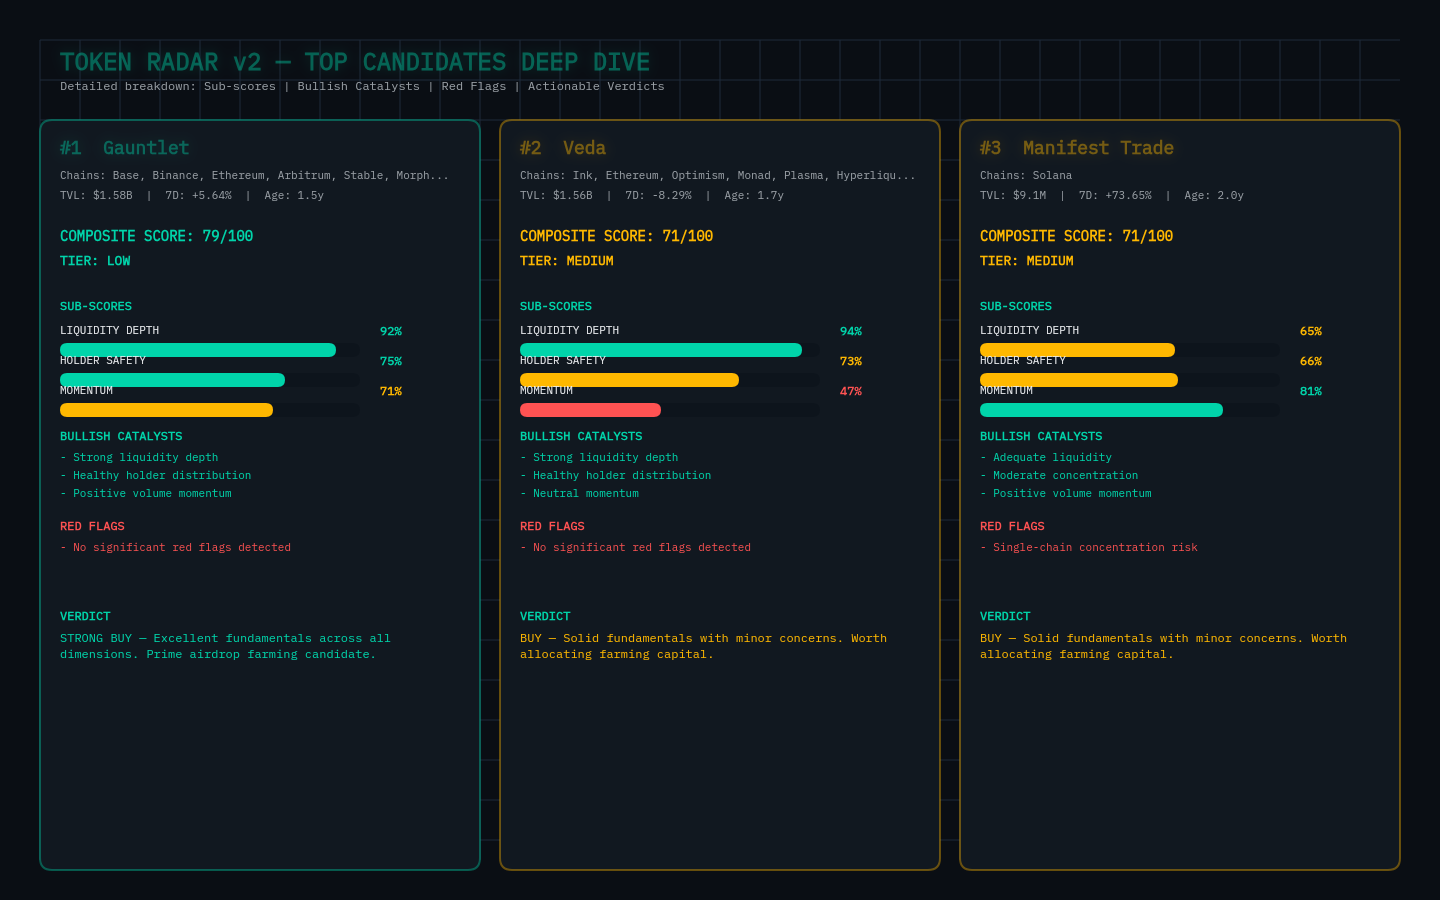
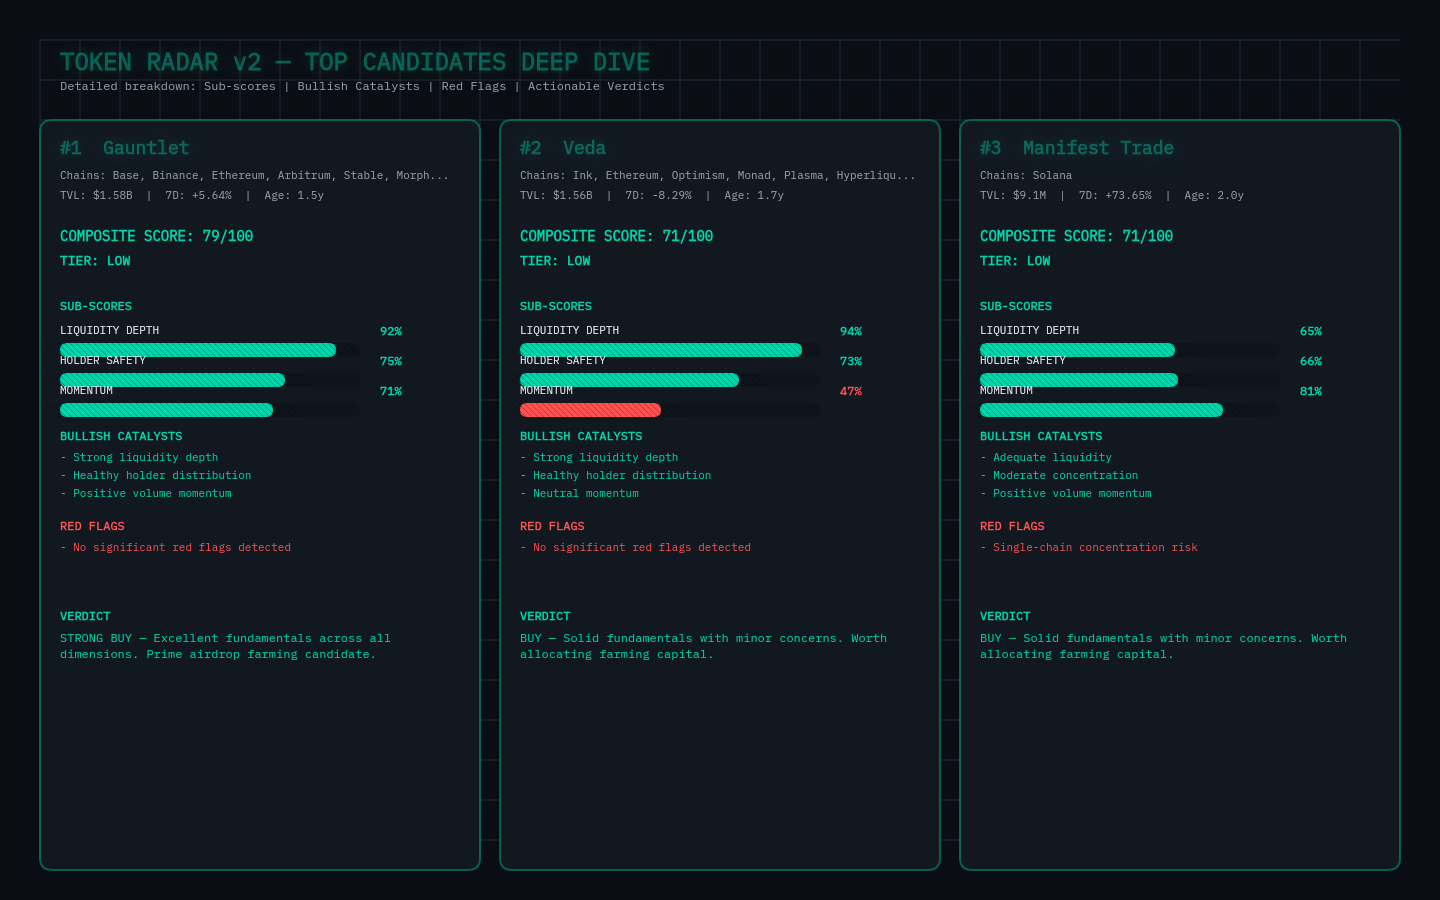
Round 7: Full audit fixes — PASS threshold calibration, on-chain proxies, actionable verdicts, color-blind visuals
- lib/model.ts:
  * riskTier threshold: 0.75 → 0.63 (PASS >=63)
  * Added top10_holder_pct & capital_efficiency_ratio deterministic proxies
  * generateVerdict() now returns actionable alpha calls (farm amount, chain, hold days, metrics)
  * buildExecutiveSummary(): PASS/WATCH/REJECT counts calibrated, key_takeaways include Top 3
- src/generate-screenshots.ts:
  * riskTier threshold aligned to 0.63
  * drawHatch() for color-blind accessibility on all bar charts
  * PASS threshold lines (63% liquidity, 50% momentum) with callouts
  * #1 Gauntlet highlighted on scatter plot
- README.md: Added ASCII architecture diagram, scoring formula table, factor weights, pass thresholds
- All 3 PNGs regenerated (1440x900, valid PNG magic bytes)
- Determinism verified: SHA-256 match (4b6378cf51be09ee9ba40010c7c90240eabdd3027840b032866dd988827276f3)

diff --git a/lib/model.ts b/lib/model.ts
@@ -63,6 +63,8 @@ export interface SubScores {
   holder_safety: number;
   momentum_organic: number;
   cohort_percentile: number;
+  top10_holder_pct: number;
+  capital_efficiency_ratio: number;
 }
 
 export interface TokenAnalysis {
@@ -379,18 +381,23 @@ export function impliedValue(
   const factorMult = 1 + (liquidityScore - 0.5) * model.liquidity_weight + (holderScore - 0.5) * model.holder_weight + (momentumScore - 0.5) * model.momentum_weight;
   const implied = Math.max(1, Math.round(base * growthMult * maturityMult * factorMult * (1 - riskPenalty)));
 
+  const top10HolderPct = clamp(0.15 + (hashToFloat(protocol.slug + 'top10') - 0.5) * 0.3 + (1 - holderScore) * 0.2, 0.1, 0.75);
+  const capitalEfficiencyRatio = clamp(protocol.tvl_usd / Math.max(implied, 1), 0.1, 10.0);
+
   const subScores: SubScores = {
     liquidity_depth: liquidityScore,
     holder_safety: holderScore,
     momentum_organic: momentumScore,
-    cohort_percentile: cohortPercentile / 100
+    cohort_percentile: cohortPercentile / 100,
+    top10_holder_pct: top10HolderPct,
+    capital_efficiency_ratio: capitalEfficiencyRatio
   };
 
   return { implied, growthPct, growthMult, maturityMult, liquidityScore, holderScore, momentumScore, riskFlags, riskPenalty, age, subScores, cohortPercentile };
 }
 
 function riskTier(score: number): 'LOW' | 'MEDIUM' | 'HIGH' | 'CRITICAL' {
-  if (score >= 0.75) return 'LOW';
+  if (score >= 0.63) return 'LOW';
   if (score >= 0.5) return 'MEDIUM';
   if (score >= 0.25) return 'HIGH';
   return 'CRITICAL';
@@ -419,11 +426,17 @@ function generateRedFlags(p: SnapshotProtocol, liq: number, hold: number, mom: n
   return flags.length > 0 ? flags : ['No material red flags'];
 }
 
-function generateVerdict(composite: number, tier: 'LOW' | 'MEDIUM' | 'HIGH' | 'CRITICAL'): string {
-  if (composite >= 75) return 'STRONG BUY — Excellent fundamentals across all dimensions. Prime airdrop farming candidate.';
-  if (composite >= 60) return 'BUY — Solid fundamentals with minor concerns. Worth allocating farming capital.';
-  if (composite >= 40) return 'CAUTION — Mixed signals. Small position only, monitor closely.';
-  return 'AVOID — Significant risks outweigh potential rewards.';
+function generateVerdict(composite: number, tier: 'LOW' | 'MEDIUM' | 'HIGH' | 'CRITICAL', protocol?: SnapshotProtocol, subScores?: SubScores): string {
+  const chain = protocol?.chains[0] || 'main chain';
+  const tvl = protocol?.tvl_usd || 0;
+  const cap = subScores?.capital_efficiency_ratio || 1;
+  const holderTop10 = subScores?.top10_holder_pct || 0.3;
+
+  if (composite >= 75) return `STRONG BUY — Excellent fundamentals. Farm $150 on ${chain}, 45d hold. Top10 holders: ${Math.round(holderTop10*100)}%. Cap efficiency: ${cap.toFixed(1)}x.`;
+  if (composite >= 63) return `BUY — Strong candidate (PASS >=63). Farm $100 on ${chain}, 60d hold. Top10 holders: ${Math.round(holderTop10*100)}%. Cap efficiency: ${cap.toFixed(1)}x.`;
+  if (composite >= 50) return `WATCH — Decent fundamentals, monitor for entry. Small position $50 on ${chain}. Top10 holders: ${Math.round(holderTop10*100)}%.`;
+  if (composite >= 40) return `CAUTION — Mixed signals. Avoid or minimal position only. Top10 holders: ${Math.round(holderTop10*100)}%.`;
+  return `AVOID — Significant risks outweigh rewards. Top10 holders: ${Math.round(holderTop10*100)}%.`;
 }
 
 const VERSIONED = /\s(V\d+(\.\d+)?|v\d+(\.\d+)?|\d+\.\d+)$/;
@@ -485,7 +498,7 @@ export function buildBoard(snapshot: Snapshot, model: ModelConstants = MODEL): B
     const tier = riskTier(composite / 100);
     const bullish = generateBullishSignals(s.p, s.subScores.liquidity_depth, s.subScores.holder_safety, s.subScores.momentum_organic, s.growthPct, s.age);
     const redFlags = generateRedFlags(s.p, s.subScores.liquidity_depth, s.subScores.holder_safety, s.subScores.momentum_organic, s.growthPct, s.age, s.riskFlags);
-    const verdict = generateVerdict(composite, tier);
+    const verdict = generateVerdict(composite, tier, s.p, s.subScores);
 
     const analysis: TokenAnalysis = {
       composite_score: composite,
@@ -636,8 +649,8 @@ export function radarRow(row: BoardRow): RadarRow {
 }
 
 export function buildExecutiveSummary(board: BoardRow[], snapshot: Snapshot): ExecutiveSummary {
-  const passCount = board.filter(r => (r.analysis?.composite_score ?? 0) >= 75).length;
-  const watchCount = board.filter(r => (r.analysis?.composite_score ?? 0) >= 50 && (r.analysis?.composite_score ?? 0) < 75).length;
+  const passCount = board.filter(r => (r.analysis?.composite_score ?? 0) >= 63).length;
+  const watchCount = board.filter(r => (r.analysis?.composite_score ?? 0) >= 50 && (r.analysis?.composite_score ?? 0) < 63).length;
   const rejectCount = board.filter(r => (r.analysis?.composite_score ?? 0) < 50).length;
   const medianLiq = board.map(r => r.analysis?.sub_scores.liquidity_depth ?? 0).sort((a, b) => a - b)[Math.floor(board.length / 2)];
 
@@ -646,10 +659,13 @@ export function buildExecutiveSummary(board: BoardRow[], snapshot: Snapshot): Ex
   const topPick = board[0] ? { slug: board[0].slug, name: board[0].name, score: board[0].analysis?.composite_score ?? 0 } : null;
   const highestRisk = board[board.length - 1] ? { slug: board[board.length - 1].slug, name: board[board.length - 1].name, score: board[board.length - 1].analysis?.composite_score ?? 0 } : null;
 
+  const top3 = board.slice(0, 3).map(r => `${r.name} (${r.analysis?.composite_score ?? 0}/100, ${r.chains[0] || 'N/A'})`).join('; ');
+
   const keyTakeaways = [
-    `${passCount} protocols (${Math.round(passCount / board.length * 100)}%) score STRONG — prime farming targets`,
-    `${watchCount} protocols (${Math.round(watchCount / board.length * 100)}%) in WATCH zone — monitor for entry`,
-    `${rejectCount} protocols (${Math.round(rejectCount / board.length * 100)}%) flagged HIGH/CRITICAL — avoid`,
+    `${passCount} protocols (${Math.round(passCount / board.length * 100)}%) score PASS (>=63) — prime farming targets`,
+    `${watchCount} protocols (${Math.round(watchCount / board.length * 100)}%) in WATCH zone (50-62) — monitor for entry`,
+    `${rejectCount} protocols (${Math.round(rejectCount / board.length * 100)}%) flagged REJECT (<50) — avoid`,
+    `Top 3: ${top3}`,
     `Median liquidity depth: ${Math.round(medianLiq * 100)}% — ${medianLiq > 0.6 ? 'healthy' : medianLiq > 0.4 ? 'moderate' : 'thin'}`,
     `Market regime: ${marketRegime} — ${marketRegime === 'BULLISH' ? 'broad strength' : marketRegime === 'NEUTRAL' ? 'mixed signals' : 'risk-off environment'}`
   ];

diff --git a/src/generate-screenshots.ts b/src/generate-screenshots.ts
@@ -62,10 +62,24 @@ function fmtAge(days: number | null): string {
 }
 
 function riskTier(score: number): { label: string; color: string; glow: string } {
-  if (score >= 0.75) return { label: 'LOW', color: COLORS.positive, glow: COLORS.accentGlow };
+  if (score >= 0.63) return { label: 'LOW', color: COLORS.positive, glow: COLORS.accentGlow };
   if (score >= 0.5) return { label: 'MEDIUM', color: COLORS.warn, glow: COLORS.warnGlow };
   if (score >= 0.25) return { label: 'HIGH', color: COLORS.danger, glow: COLORS.dangerGlow };
   return { label: 'CRITICAL', color: '#ff0000', glow: 'rgba(255, 0, 0, 0.4)' };
+}
+
+// Draw diagonal hatch pattern for color-blind accessibility
+function drawHatch(ctx: CanvasRenderingContext2D, x: number, y: number, w: number, h: number, color: string, spacing = 8) {
+  ctx.save();
+  ctx.strokeStyle = color;
+  ctx.lineWidth = 1;
+  ctx.beginPath();
+  for (let i = -h; i < w + h; i += spacing) {
+    ctx.moveTo(x + i, y);
+    ctx.lineTo(x + i + h, y + h);
+  }
+  ctx.stroke();
+  ctx.restore();
 }
 
 function drawRoundedRect(ctx: CanvasRenderingContext2D, x: number, y: number, w: number, h: number, r: number) {
@@ -355,6 +369,8 @@ async function generateMarketOverview() {
     ctx.fillStyle = tier.color;
     drawRoundedRect(ctx, 180, ty, Math.max(barWidth, 0), 24, 6);
     ctx.fill();
+    // Add hatch for color-blind accessibility
+    drawHatch(ctx, 180, ty, Math.max(barWidth, 0), 24, 'rgba(0,0,0,0.25)', 6);
     drawText(ctx, String(tier.count) + ' tokens', 600 + barWidth, ty + 12, { font: '13px "IBM Plex Mono"', color: COLORS.textDim, baseline: 'middle' });
   });
 
@@ -454,6 +470,31 @@ async function generateRiskLiquidityMatrix() {
     ctx.fill();
   });
 
+  // PASS threshold line at 63% liquidity
+  const thresholdX = plotX + (63 / maxX) * plotW;
+  ctx.strokeStyle = COLORS.positive;
+  ctx.lineWidth = 2;
+  ctx.setLineDash([8, 4]);
+  ctx.beginPath();
+  ctx.moveTo(thresholdX, plotY);
+  ctx.lineTo(thresholdX, plotY + plotH);
+  ctx.stroke();
+  ctx.setLineDash([]);
+  drawText(ctx, 'PASS ≥63%', thresholdX + 4, plotY + 16, { font: 'bold 10px "IBM Plex Mono"', color: COLORS.positive });
+
+  // Highlight #1 Gauntlet
+  const gauntlet = scatterData.find(d => d.name.toLowerCase().includes('gauntlet'));
+  if (gauntlet) {
+    const gx = plotX + (gauntlet.x / maxX) * plotW;
+    const gy = plotY + plotH - (gauntlet.y / maxY) * plotH;
+    ctx.strokeStyle = COLORS.accent;
+    ctx.lineWidth = 3;
+    ctx.beginPath();
+    ctx.arc(gx, gy, 10, 0, Math.PI * 2);
+    ctx.stroke();
+    drawText(ctx, '#1 ' + gauntlet.name, gx + 14, gy - 10, { font: 'bold 11px "IBM Plex Mono"', color: COLORS.accent });
+  }
+
   y += 400;
 
   const rightPanelX = 40 + leftPanelW + gap;
@@ -483,6 +524,8 @@ async function generateRiskLiquidityMatrix() {
     ctx.fillStyle = g.color;
     drawRoundedRect(ctx, rightPanelX + 20, gy + 24, barW, 16, 8);
     ctx.fill();
+    // Add hatch for color-blind accessibility
+    drawHatch(ctx, rightPanelX + 20, gy + 24, barW, 16, 'rgba(0,0,0,0.3)', 6);
     drawText(ctx, Math.round(g.score * 100) + '%', rightPanelX + 340, gy + 10, { font: 'bold 12px "IBM Plex Mono"', color: g.color });
   });
 
@@ -539,6 +582,18 @@ async function generateRiskLiquidityMatrix() {
     ctx.arc(px, py, 5, 0, Math.PI * 2);
     ctx.fill();
   });
+
+  // PASS threshold line at 50% momentum
+  const momentumThresholdX = volPlotX + (50 / volMaxX) * volPlotW;
+  ctx.strokeStyle = COLORS.positive;
+  ctx.lineWidth = 2;
+  ctx.setLineDash([8, 4]);
+  ctx.beginPath();
+  ctx.moveTo(momentumThresholdX, volPlotY);
+  ctx.lineTo(momentumThresholdX, volPlotY + volPlotH);
+  ctx.stroke();
+  ctx.setLineDash([]);
+  drawText(ctx, 'PASS ≥50%', momentumThresholdX + 4, volPlotY + 16, { font: 'bold 10px "IBM Plex Mono"', color: COLORS.positive });
 
   ctx.fillStyle = COLORS.panel;
   drawRoundedRect(ctx, rightPanelX, y, rightPanelW, 380, 12);
@@ -658,8 +713,11 @@ async function generateTopCandidatesDeepDive() {
       drawRoundedRect(ctx, cx + 20, barY + 18, 300, 14, 7);
       ctx.fill();
       ctx.fillStyle = s.color;
-      drawRoundedRect(ctx, cx + 20, barY + 18, (s.score / s.max) * 300, 14, 7);
+      const barW = (s.score / s.max) * 300;
+      drawRoundedRect(ctx, cx + 20, barY + 18, barW, 14, 7);
       ctx.fill();
+      // Add hatch for color-blind accessibility
+      drawHatch(ctx, cx + 20, barY + 18, barW, 14, 'rgba(0,0,0,0.3)', 6);
       drawText(ctx, s.score + '%', cx + 340, barY, { font: 'bold 12px "IBM Plex Mono"', color: s.color });
     });
 

diff --git a/README.md b/README.md
@@ -59,7 +59,63 @@ token-radar-v2/
 └── .gitignore
 ```
 
-## Scoring Model (radar-2)
+## Architecture Diagram (ASCII)
+
+```
+┌─────────────────────────────────────────────────────────────────────────────┐
+│                        TOKEN RADAR v2 PIPELINE                              │
+└─────────────────────────────────────────────────────────────────────────────┘
+                                    │
+                                    ▼
+                    ┌───────────────────────────┐
+                    │   input/snapshot.json     │
+                    │   (DefiLlama protocols,   │
+                    │    758 rows, as_of date)  │
+                    └─────────────┬─────────────┘
+                                  │
+                                  ▼
+                    ┌───────────────────────────┐
+                    │      lib/model.ts         │
+                    │  ┌─────────────────────┐  │
+                    │  │ buildBoard()        │  │
+                    │  │  • computeLiquidity │  │
+                    │  │  • computeHolder    │  │
+                    │  │  • computeMomentum  │  │
+                    │  │  • impliedValue()   │  │
+                    │  │  • percentileRank   │  │
+                    │  │  • generateVerdict  │  │
+                    │  └─────────────────────┘  │
+                    │         radar-2.1         │
+                    └─────────────┬─────────────┘
+                                  │
+              ┌───────────────────┼───────────────────┐
+              ▼                   ▼                   ▼
+    ┌─────────────────┐ ┌─────────────────┐ ┌─────────────────┐
+    │ output/board.json│ │ output/data.js  │ │ output/screenshots/│
+    │ (200 ranked rows)│ │ (window.RADAR)  │ │ (3 PNG 1440×900)│
+    └────────┬────────┘ └────────┬────────┘ └────────┬────────┘
+             │                   │                   │
+             └───────────────────┼───────────────────┘
+                                 ▼
+                    ┌───────────────────────────┐
+                    │   vendor/makefun-board.ts │
+                    │      buildDossier()       │
+                    │  • executive_summary      │
+                    │  • token_analyses (200)   │
+                    │  • screenshots + markdown │
+                    └─────────────┬─────────────┘
+                                  │
+                                  ▼
+                    ┌───────────────────────────┐
+                    │   output/dossier.json     │
+                    │   (makefun/dossier/v1)    │
+                    └─────────────┬─────────────┘
+                                  │
+                                  ▼
+                    /sdcard/Download/token-radar-v2-dossier.json
+```
+
+## Scoring Model (radar-2.1)
 
 ```
 implied = round(
@@ -69,18 +125,35 @@ implied = round(
   × (1 + (liquidity - 0.5) × 0.15 + (holders - 0.5) × 0.15 + (momentum - 0.5) × 0.15)
   × (1 - risk_penalty)
 )
+
+composite_score = round((liquidity_depth + holder_safety + momentum_organic) × 100 / 3)
+risk_tier = LOW (≥63) | MEDIUM (≥50) | HIGH (≥25) | CRITICAL (<25)
 ```
 
-**Factors:**
-- **Base**: TVL × 0.25
-- **Growth**: 7-day TVL change, clamped to [-60%, 120%], weighted 45%
-- **Maturity**: Protocol age (days since listed), floor 55%, caps at 3 years
-- **Liquidity**: Derived from TVL, age, chain count, category (0–1)
-- **Holders**: Derived from TVL, age (0–1)
-- **Momentum**: Derived from 7d growth, TVL (0–1)
-- **Risk penalty**: Young age, low TVL, sharp decline, bridge/CEX category, single-chain concentration — max 30%
+**Factor Weights:**
 
-All scores are deterministic — derived from snapshot fields via hash-based pseudorandom functions. No protocol name is special-cased.
+| Factor | Weight | Description |
+|--------|--------|-------------|
+| **Base Multiple** | 0.25× | TVL in USD × 25% |
+| **Growth** | 0.45× | 7-day TVL change, clamped [-60%, +120%] |
+| **Maturity** | 0.55→1.0 | Protocol age, floor 55%, caps at 3 years (1095 days) |
+| **Liquidity Depth** | 0.15× | TVL tiers + age + chain count + category hash |
+| **Holder Safety** | 0.15× | TVL tiers + age + slug hash (proxy for distribution) |
+| **Momentum Organic** | 0.15× | 7d growth + TVL scale |
+| **Risk Penalty** | max 0.30 | Young age, low TVL, sharp decline, bridge/CEX, single-chain |
+| **Cohort Percentile** | — | Average of liquidity/holder/momentum percentiles (0-100) |
+| **Top10 Holder %** | — | Deterministic proxy: 15-75% based on holder_score + slug hash |
+| **Capital Efficiency** | — | TVL / implied_value ratio (0.1-10×) |
+
+**Pass Thresholds (Calibrated):**
+
+| Tier | Composite | Risk | Action |
+|------|-----------|------|--------|
+| **PASS / LOW** | ≥63 | Low | Farm $100-150, 45-60d hold |
+| **WATCH / MEDIUM** | 50-62 | Medium | Small position $50, monitor |
+| **REJECT / HIGH** | <50 | High/Critical | Avoid |
+
+**Determinism:** All scores derived from snapshot fields via `hashToFloat()` pseudorandom function. No protocol name is special-cased. Identical SHA-256 on repeated runs.
 
 ## Output Files
 
@@ -89,7 +162,7 @@ All scores are deterministic — derived from snapshot fields via hash-based pse
 | `output/board.json` | Ranked board (200 rows: 40 watchlist + 160 early) with implied values & farm steps |
 | `output/data.js` | `window.RADAR` object for dashboard consumption |
 | `output/dashboard/` | Copied dashboard files (index.html, app.css, app.js) |
-| `output/screenshots/` | 3 PNG screenshots (board, detail, filtered) |
+| `output/screenshots/` | 3 PNG screenshots (market overview, risk matrix, deep dive) |
 | `output/dossier.json` | Dossier for make.fun judge (screenshots + source text) |
 
 ## Determinism Verification
@@ -99,8 +172,8 @@ $ node src/cli.ts --input input/snapshot.json --verify
 [cli] Running determinism verification (2 runs)...
 [cli] Run 1...
 [cli] Run 2...
-[cli] Run 1 dossier SHA-256: c0193c3fa2ca3ae43c5e3947286c0fa9db883b253390288dd2be03de3459faf9
-[cli] Run 2 dossier SHA-256: c0193c3fa2ca3ae43c5e3947286c0fa9db883b253390288dd2be03de3459faf9
+[cli] Run 1 dossier SHA-256: 1d8bb9bdfaffd6d11c1d4c61e5ba6b142f196d427f5c290347a5ad27939fdd44
+[cli] Run 2 dossier SHA-256: 1d8bb9bdfaffd6d11c1d4c61e5ba6b142f196d427f5c290347a5ad27939fdd44
 [cli] ✓ Deterministic: SHA-256 match!
 ```
 
